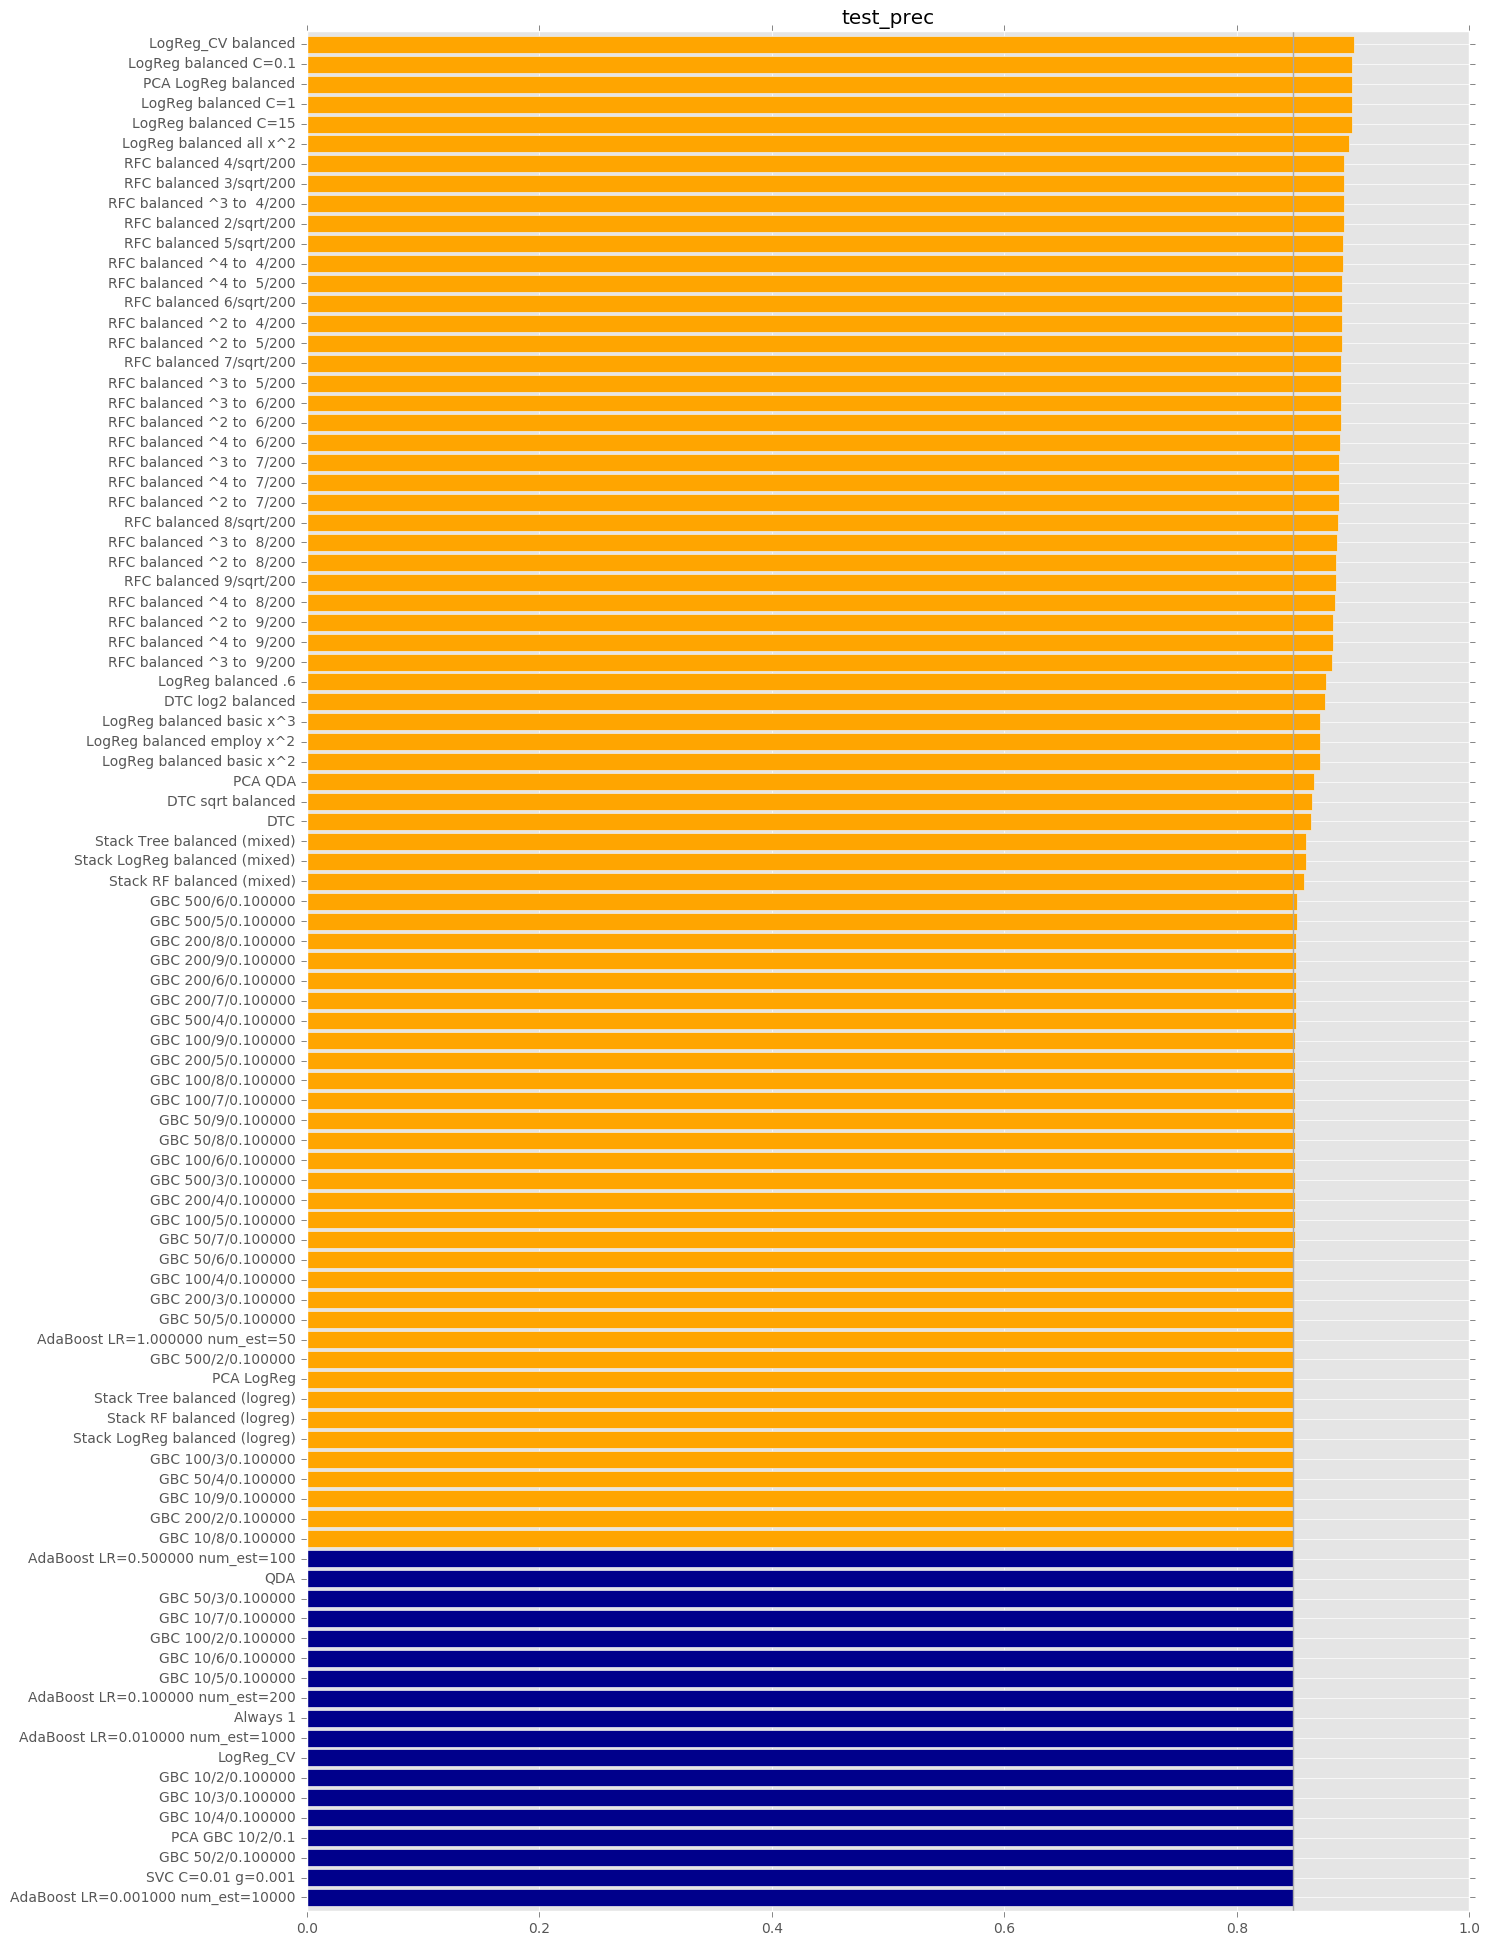
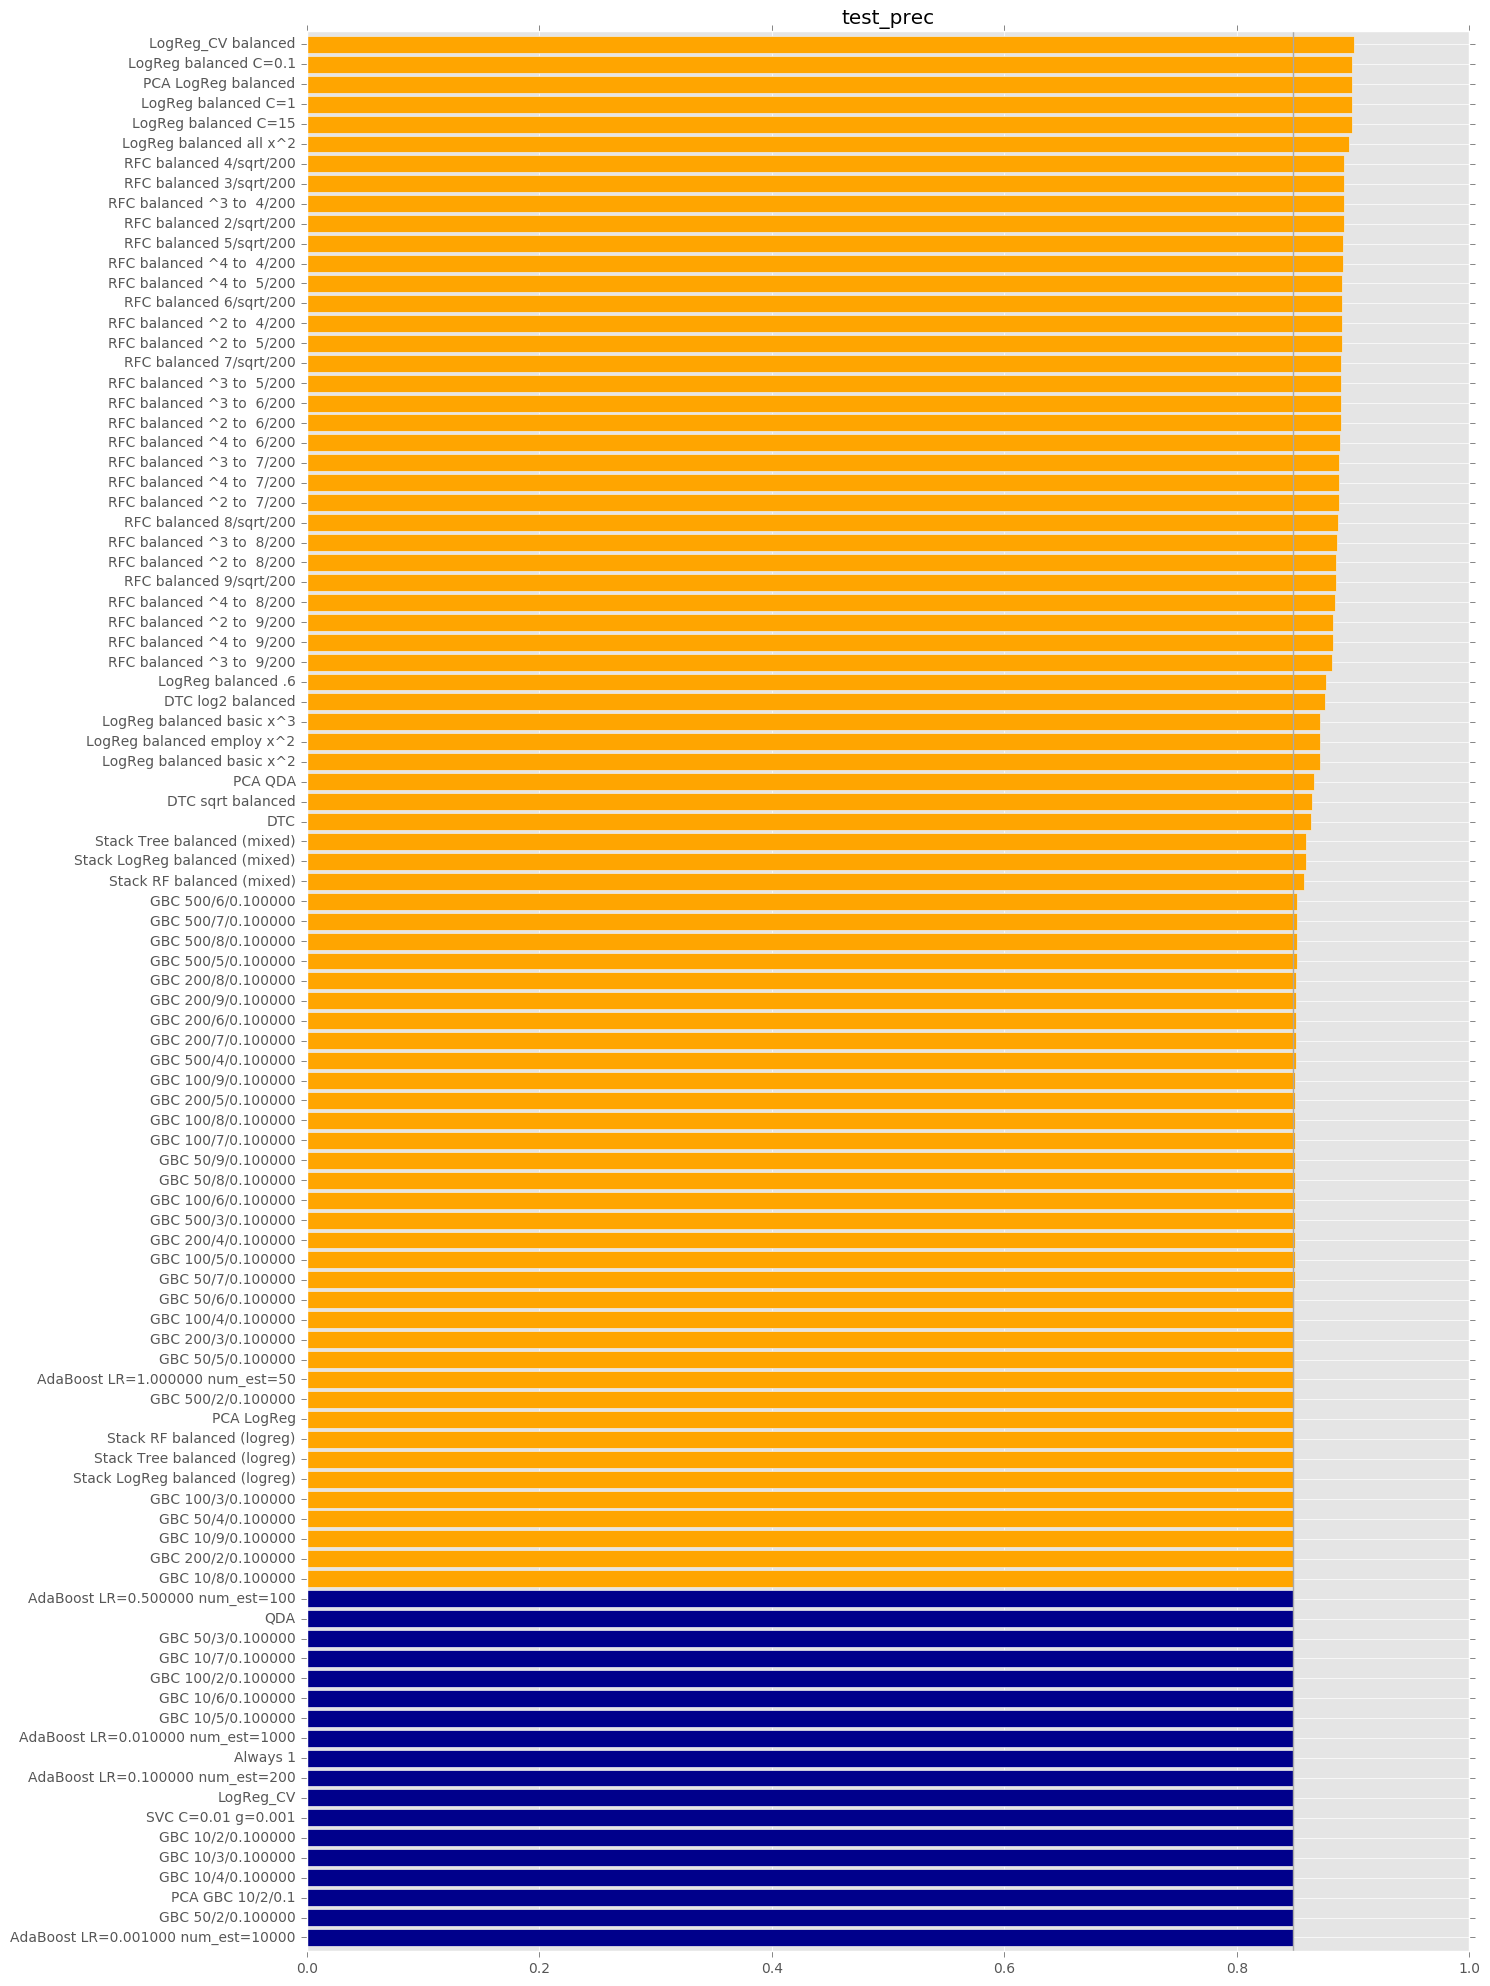
Updated the results

Changed region(s): [[0.0, 0.0, 0.9262, 0.9866], [0.0309, 0.8016, 0.0617, 0.8325]]

diff --git a/docs/model_performance_table.js b/docs/model_performance_table.js
@@ -44,8 +44,10 @@ document.write("<tr><th>GBC 500/3/0.100000</th><td class='better'>0.660</td><td>
 document.write("<tr><th>GBC 500/4/0.100000</th><td>0.653</td><td>0.915</td><td>0.630</td><td>0.844</td><td>0.915</td><td class='better'>0.851</td><td>0.844</td></tr>")
 document.write("<tr><th>GBC 500/5/0.100000</th><td>0.647</td><td>0.913</td><td>0.689</td><td>0.841</td><td>0.914</td><td class='better'>0.851</td><td>0.843</td></tr>")
 document.write("<tr><th>GBC 500/6/0.100000</th><td>0.638</td><td>0.911</td><td>0.715</td><td>0.838</td><td>0.913</td><td class='better'>0.852</td><td>0.841</td></tr>")
+document.write("<tr><th>GBC 500/7/0.100000</th><td>0.630</td><td>0.911</td><td>0.704</td><td>0.838</td><td>0.912</td><td class='better'>0.852</td><td>0.840</td></tr>")
+document.write("<tr><th>GBC 500/8/0.100000</th><td>0.625</td><td>0.912</td><td>0.716</td><td>0.839</td><td>0.913</td><td class='better'>0.852</td><td>0.841</td></tr>")
 document.write("<tr><th>LogReg balanced .6</th><td>0.656</td><td>0.723</td><td>0.726</td><td>0.607</td><td>0.851</td><td class='better'>0.877</td><td>0.604</td></tr>")
-document.write("<tr><th>LogReg balanced C=0.1</th><td class='better'>0.657</td><td>0.721</td><td>0.781</td><td>0.605</td><td>0.720</td><td class='better'>0.899</td><td>0.603</td></tr>")
+document.write("<tr><th>LogReg balanced C=0.1</th><td>0.657</td><td>0.721</td><td>0.781</td><td>0.605</td><td>0.720</td><td class='better'>0.899</td><td>0.603</td></tr>")
 document.write("<tr><th>LogReg balanced C=1</th><td>0.656</td><td>0.723</td><td>0.780</td><td>0.607</td><td>0.720</td><td class='better'>0.899</td><td>0.604</td></tr>")
 document.write("<tr><th>LogReg balanced C=15</th><td>0.655</td><td>0.723</td><td>0.780</td><td>0.607</td><td>0.720</td><td class='better'>0.899</td><td>0.603</td></tr>")
 document.write("<tr><th>LogReg balanced all x^2</th><td>0.656</td><td>0.745</td><td>0.787</td><td>0.627</td><td>0.738</td><td class='better'>0.897</td><td>0.623</td></tr>")
@@ -53,7 +55,7 @@ document.write("<tr><th>LogReg balanced basic x^2</th><td>0.564</td><td>0.670</t
 document.write("<tr><th>LogReg balanced basic x^3</th><td>0.564</td><td>0.659</td><td>0.824</td><td>0.535</td><td>0.664</td><td class='better'>0.872</td><td>0.539</td></tr>")
 document.write("<tr><th>LogReg balanced employ x^2</th><td>0.564</td><td>0.670</td><td>0.824</td><td>0.545</td><td>0.671</td><td class='better'>0.871</td><td>0.546</td></tr>")
 document.write("<tr><th>LogReg_CV</th><td>0.630</td><td>0.918</td><td>nan</td><td>0.848</td><td>0.918</td><td>0.848</td><td>0.848</td></tr>")
-document.write("<tr><th>LogReg_CV balanced</th><td class='better'>0.657</td><td>0.723</td><td>0.780</td><td>0.607</td><td>0.716</td><td class='better'>0.900</td><td>0.600</td></tr>")
+document.write("<tr><th>LogReg_CV balanced</th><td>0.657</td><td>0.723</td><td>0.780</td><td>0.607</td><td>0.716</td><td class='better'>0.900</td><td>0.600</td></tr>")
 document.write("<tr><th>PCA GBC 10/2/0.1</th><td>0.613</td><td>0.918</td><td>nan</td><td>0.848</td><td>0.918</td><td>0.848</td><td>0.848</td></tr>")
 document.write("<tr><th>PCA LogReg</th><td class='better'>0.658</td><td>0.918</td><td>0.542</td><td>0.848</td><td>0.918</td><td class='better'>0.849</td><td>0.848</td></tr>")
 document.write("<tr><th>PCA LogReg balanced</th><td>0.656</td><td>0.721</td><td>0.780</td><td>0.605</td><td>0.719</td><td class='better'>0.899</td><td>0.603</td></tr>")

diff --git a/docs/05-Analysis.html b/docs/05-Analysis.html
@@ -44,14 +44,20 @@ this final report part.</p>
 <h3>Summary comparison of all models:</h3>
 
 <p>The following table and bar charts compare all of the models in our
-notebook. For most metrics, we take as a baseline the balanced
-cross-validated logistic regression model, which has an AUC of 0.657,
-a test F1 of 0.534, and a test precision of 0.781. For classification
-accuracy, we take as a baseline the .848 rate resulting from the
-"Always 1" model (as well as all of the unbalanced models). <em>In
-each case, results that surpass our benchmark are highlighted in
-red.</em></p>
-  
+notebook. The appopriate choice of baseline model depends on which
+metric we are using to compare the models. All metrics are computed
+using the test data set.</p>
+
+<ul>
+ <li>For most metrics, we use the <b>Always 1</b> model, which has an
+  F1 score of 0.918, a classification accuracy of 0.848 (the fraction
+  which are paid in full), and a precision of 0.848.</li>
+ <li>For the AUC, the "Always 1" model is degenerate, so we use
+  the <b>balanced, cross-validated Logistic Regression</b> model,
+  which is a simple model that allows us to choose the tradeoff
+  between precision and recall. It has AUC=0.657</li>
+</ul>
+
 <p>Note that in cases where we optimized model hyperparameters using a
 grid of values, all the values <!--only the optimal hyperparameters-->
 are represented in this report.</p>
@@ -75,9 +81,6 @@ are represented in this report.</p>
   result is as high as 0.664. These results almost match those from
   SVC -- it is possible that additional estimators could give GBC an
   edge over SVC.</li>
-
-  <li>The <b>Random Forest Classifier</b> at best achieves precision
-  on the test set of about .893</li>
 </ul>
   
 <p>Some other model groups exceed the baseline in some way, but they
@@ -107,7 +110,10 @@ have weaknesses that may undercut their usefulness in general:</p>
 outperform the baseline model by about the same amount -- each with an
 AUC around 0.666, compared to 0.657 for the baseline model.</em> Both
 SVC and GBC models have reasonable but not excellent values for other
-metrics.</p>
+metrics. Precision is commonly better than the baseline, even without
+adjusting the precision/recall relationship. We were unable to improve
+either the F1 score nor the overall classification accuracy.
+</p>
 
 <p><a href="#continued_1">[Skip to <i>ROC Area Under Curve</i>]</a></p>
 

diff --git a/model_performance.py b/model_performance.py
@@ -20,7 +20,16 @@ for filename in ('model_performance_2.txt',
         d = json.loads(line)
         model_performance[d['name']] = d['perf']
 
-baseline_values = model_performance['LogReg_CV balanced']
+baseline_models = {
+    'auc': 'LogReg_CV balanced',
+    'test_f1_inv': 'Always 1',
+    'test_score': 'Always 1',
+    'test_prec_inv': 'Always 1',
+}
+
+baseline_values = {}
+for k,v in baseline_models.items():
+    baseline_values[k] = model_performance[v][k]
 
 print "html"
 h = open('docs/model_performance_table.js', 'w')
@@ -33,10 +42,9 @@ for k, d in sorted(model_performance.items()):
             continue
         try:
             base_value = baseline_values[k2]
+            base_value = round(base_value, 3)
         except:
-            continue
-        if k2 != 'auc':
-            base_value = round(model_performance['Always 1'][k2], 3)
+            pass
             
         if k2 in ('auc', 'test_f1_inv', 'test_prec_inv', 'test_score') and round(v, 3) > base_value:
             s += "<td class='better'>%.3f</td>" % (v, )
@@ -50,8 +58,6 @@ model_performance_df = pd.DataFrame(model_performance).T
 for col in ('auc', 'test_score', 'test_f1_inv', 'test_prec_inv'):
     print col
     base_value = baseline_values[col]
-    if col != 'auc':
-        base_value = model_performance['Always 1'][col]
     plt.figure(figsize=(15, .25*len(model_performance_df)))
     plt.axvline(x=base_value, color='darkgrey')
     sorted_values = model_performance_df[col].fillna(0).sort_values()
